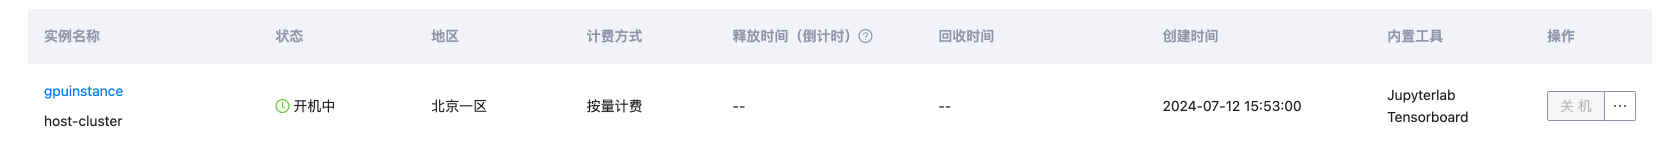
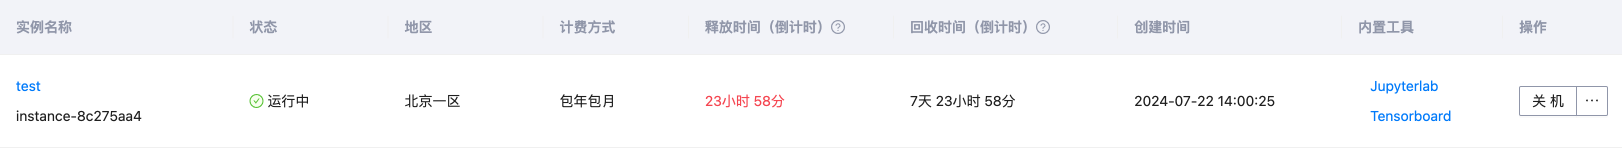
修改部分细节/新增贴图

diff --git a/i18n/zh-Hans/docusaurus-plugin-content-docs/current/ContainerInstance/jupterlab.md b/i18n/zh-Hans/docusaurus-plugin-content-docs/current/ContainerInstance/jupterlab.md
@@ -5,18 +5,28 @@ sidebar_label: JupyterLab
 ---
 ### 操作步骤
 
-进入左侧侧边栏中的**我的算力实例**，在具体的实例的内置工具下，点击Jupyterlab，进入Jupyterla界面。
+1.进入左侧侧边栏中的**算力实例**，在具体的实例的内置工具下，点击Jupyterlab，首先进入JupyterLab 启动时的登录界面。
+<img src={require('../../../../../static/img/jupyterlab/jupyterlab-1.png').default} alt="JupyterLab登录" style={{width: '600px', height: 'auto'}} />
+
+2.按照登录界面介绍，利用[ssh](ssh)连接算力实例，在终端输入命令：
+```bash
+jupyter server list
+```
+3.得到以下输出，复制'token='后的内容 <mark>c8de56fa... </mark> 作为密码粘贴到登录页面的密码字段中。注意:复制URL进入浏览器无法顺利进入JupyterLab，需要采取上文的输入token的方法。
+```bash
+http://localhost:8888/?token=c8de56fa... :: /Users/you/notebooks
+```
+
+4.进入JupyterLab界面。
+<img src={require('../../../../../static/img/jupyterlab/jupyterlab-2.png').default} alt="JupyterLab界面" style={{width: '1000px', height: 'auto'}} />
 
 ### 基本功能介绍
 
-JupyterLab界面说明
-
-上传文件
-
-使用Notebook
-
-打开新终端
-
-访问打开的终端或Notebook（JupyterLab在关闭终端/Notebook选项卡后默认不会终止，仍然在运行）
-
-文件管理
+JupyterLab 界面主要包括两大部分，即文件浏览区和工作区。
+<img src={require('../../../../../static/img/jupyterlab/jupyterlab-3.png').default} alt="JupyterLab界面" style={{width: '1000px', height: 'auto'}} />
+在文件浏览区，双击文件夹名称，进入文件目录。点击文件上传标识，选择待上传的文件。
+<img src={require('../../../../../static/img/jupyterlab/jupyterlab-4.png').default} alt="JupyterLab界面" style={{width: '300px', height: 'auto'}} />
+在文件浏览区，右键点击指定文件夹或文件，即可进行文件管理。
+<img src={require('../../../../../static/img/jupyterlab/jupyterlab-5.png').default} alt="JupyterLab界面" style={{width: '500px', height: 'auto'}} />
+在工作区域，点击 Other > Terminal 即可新打开一个终端。JupyterLab 在关闭终端或 Notebook 选项卡后，默认不会终止运行。
+<img src={require('../../../../../static/img/jupyterlab/jupyterlab-6.png').default} alt="JupyterLab界面" style={{width: '700px', height: 'auto'}} />

diff --git a/i18n/zh-Hans/docusaurus-plugin-content-docs/current/ContainerInstance/instance monitoring.md b/i18n/zh-Hans/docusaurus-plugin-content-docs/current/ContainerInstance/instance monitoring.md
@@ -8,7 +8,8 @@ sidebar_label: 实例监控
 ## 操作步骤
 ### 查看实例监控
 
-1.进入左侧侧边栏中的**我的算力实例**，点击具体的实例，进入该实例的详情界面。
+1.进入左侧侧边栏中的**算力实例**，点击具体的实例，进入该实例的详情界面。
+<img src={require('../../../../../static/img/monitoring/monitoring-1.png').default} alt="监控" style={{width: '1000px', height: 'auto'}} />
 
 2.在该实例的详情界面中，选择**监控**。
 
@@ -17,12 +18,12 @@ sidebar_label: 实例监控
 ### 查看实例日志
 
 在该实例的详情界面中，选择**日志**。进入容器实例日志页面，可查看当前容器实例的日志信息。
-
+<img src={require('../../../../../static/img/monitoring/monitoring-2.png').default} alt="日志" style={{width: '1000px', height: 'auto'}} />
 ### 查看实例事件
 
 在该实例的详情界面中，选择**事件**。进入容器实例事件页面，可查看当前容器实例的事件信息及其事件发生的时间。
-
+<img src={require('../../../../../static/img/monitoring/monitoring-3.png').default} alt="事件" style={{width: '1000px', height: 'auto'}} />
 ### 查看实例进程
 
 在该实例的详情界面中，选择**进程**。进入容器实例进程页面，可查看当前容器实例当前的进程，可以通过对cpu和内存对当前进程进行排序。
-
+<img src={require('../../../../../static/img/monitoring/monitoring-4.png').default} alt="事件" style={{width: '1000px', height: 'auto'}} />

diff --git a/i18n/zh-Hans/docusaurus-plugin-content-docs/current/getstarted.md b/i18n/zh-Hans/docusaurus-plugin-content-docs/current/getstarted.md
@@ -7,7 +7,7 @@ sidebar_label: 快速开始
 ## 创建实例
 
 进入概览页面，进入侧边栏中的**我的算力实例**，点击**创建实例**。
-<img src={require('../../../../static/img/getstarted/getstarted-create-instance2.png').default} alt="创建实例" style={{width: '600px', height: 'auto'}} />
+<img src={require('../../../../static/img/getstarted/getstarted-1.png').default} alt="创建实例" style={{width: '600px', height: 'auto'}} />
 
 ## 租用实例
 
@@ -27,11 +27,11 @@ sidebar_label: 快速开始
 
 <!-- 如果需要更多的存储空间，点击创建存储进入新建存储页面，选择地区、付费方式、存储类别、存储大小，设置存储名称，点击立即创建。除新建存储外，也可以对系统默认数据盘进行扩容。 -->
 
-创建成功，进入侧面栏中的我的算力实例，点击实例名称后，选中存储选项，设置存储在实例中的挂载路径，即可用该路径在实例中访问存储文件。
+创建成功，进入侧面栏中的算力实例，点击实例名称后，选中存储选项，设置存储在实例中的挂载路径，即可用该路径在实例中访问存储文件。
 
 ## 终端训练
 
-进入侧边栏中的我的算力实例，在操作中打开终端，在终端中执行您的Python命令等完成训练。
+进入侧边栏中的算力实例，在操作中打开终端，在终端中执行您的Python命令等完成训练。
 
 
 

diff --git a/i18n/zh-Hans/docusaurus-plugin-content-docs/current/RechargeBilling/rechargebilling.md b/i18n/zh-Hans/docusaurus-plugin-content-docs/current/RechargeBilling/rechargebilling.md
@@ -10,9 +10,7 @@ sidebar_label: 充值计费
 **目前平台不支持余额提现，请您按需充值。**
 当前支持的充值方式有：
 
-1.微信充值
-
-2.支付宝充值
+- 支付宝充值
 
 
 ## 计费
@@ -24,8 +22,8 @@ sidebar_label: 充值计费
 #### 1. 按量计费，后付费
 - **注意**：存储单独计费，不包含在实例计费中，请参考下方存储计费。
 - 开机开始计费，关机或删除结束计费，最低计费0.01元。
-- 存储数据保留7天后清空。
-- 整点扣费一次和关机时扣费一次，使用时长精确到秒。
+- 实例关机7天后，数据将清空。
+- 整点扣费一次，使用时长精确到秒。
 
 #### 2. 包时计费，预付费
 - 部署时一次性付清。
@@ -41,14 +39,14 @@ sidebar_label: 充值计费
 - 无论实例是否开机，均会计费。
 - 如不再需要使用，可在存储管理进行删除。
 - 最低费用0.01元。
+- 创建包时的实例扩容存储后，存储将预付费。
 
 **计费单价**：
-- 本地存储：￥0.02/G/日
-- 共享文件系统：￥0.01/G/日
+- 共享文件系统：￥0.01/日/G
 
 ### 镜像计费
 
-- 以所有镜像存储总容量大小进行收费，与镜像数量无关。
+- 以所有镜像存储总容量大小进行收费，与镜像数量无关。将赠送30G大小的镜像存储容量，超出后将付费。
 - 扣费时间为次日凌晨。
 - 最低费用0.01元。
 

diff --git a/i18n/zh-Hans/docusaurus-plugin-content-docs/current/ContainerInstance/instance status.md b/i18n/zh-Hans/docusaurus-plugin-content-docs/current/ContainerInstance/instance status.md
@@ -6,10 +6,9 @@ sidebar_label: 实例状态
 算力实例的实例状态是指实例从启动到释放所经历的各种状态。通过对算力实例从启动到销毁期间的合理管理，可确保运行于实例上的应用程序高效地提供服务。
 | 状态名 | 状态属性 | 状态描述 |
 |:-------:|:-------:|---------|
-| 创建中| 中间状态 | 实例创建后，进入“运行中”之前的状态。 |
+| 开机中| 中间状态 | 实例创建后，或实例在已关机状态后，受控制台执行开机操作，进入“运行中”之前的状态。 |
 | 运行中 | 稳定状态 | 实例正常运行状态，您可以在此状态下的实例上运行您的业务。 
 | 关机中| 中间状态 | 实例受控制台执行关机操作后，在进入“已关机”之前的状态。如果长时间处于该状态，则说明出现异常。不建议强制关机。 |
 | 已关机 | 稳定状态 | 实例被正常停止，关机状态下的实例，不能对外提供业务。实例部分属性只能在关机状态下修改。 |
-| 开机中| 中间状态 | 实例在已关机状态后，受控制台执行开机操作，进入“运行中”之前的状态。 |
 | 删除中| 中间状态 | 实例在已关机状态后，受控制台执行删除操作，在被删除前的状态。 |
 

diff --git a/i18n/zh-Hans/docusaurus-plugin-content-docs/current/DataStorage/data transmission.md b/i18n/zh-Hans/docusaurus-plugin-content-docs/current/DataStorage/data transmission.md
@@ -8,7 +8,7 @@ sidebar_label: 数据传输
 
 1.[JupyterLab](../ContainerInstance/jupterlab)：目前 JupyterLab 暂不支持批量文件或文件夹的上传/下载。
 
-2.[Matrix存储管理](createstorage)：支持上传文件、文件夹。不支持下载文件。
+2.[Matrix存储管理](createstorage)：支持上传文件。不支持上传文件夹，不支持下载文件、文件夹。
 
 3.scp命令：支持使用命令行上传下载文件和文件夹。
 
@@ -19,11 +19,12 @@ sidebar_label: 数据传输
 ### 上传
 
 按照如图所示操作上传文件。
+<img src={require('../../../../../static/img/jupyterlab/jupyterlab-4.png').default} alt="JupyterLab界面" style={{width: '300px', height: 'auto'}} />
 
 ### 下载
 
 按照如图所示操作下载文件,选中文件，然后鼠标右键。
-
+<img src={require('../../../../../static/img/jupyterlab/jupyterlab-5.png').default} alt="JupyterLab界面" style={{width: '500px', height: 'auto'}} />
 注意JupyterLab不能下载文件夹,可以使用命令行工具将文件夹压缩成一个压缩文件。这里是一个常用的压缩命令示例，假设你要将文件夹my_folder压缩成my_folder.zip：
 ```bash
 zip -r my_folder.zip my_folder

diff --git a/i18n/zh-Hans/docusaurus-plugin-content-docs/current/ServiceAgreement/serviceagreement.md b/i18n/zh-Hans/docusaurus-plugin-content-docs/current/ServiceAgreement/serviceagreement.md
@@ -113,7 +113,7 @@ sidebar_label: 服务协议
 **4.4.1 要求您除应依约支付应付费用外，每逾期一天，还应按所欠费用1‰的标准向 Neolink.AI 支付违约金，直至缴清全部费用为止。**
 **4.4.2 若您逾期付款超过15天，Neolink.AI 有权无需另行通知您即可随时采取包括但不限于提前单方解除协议的措施。**
 **4.4.3 若您逾期付款但您使用了预付费服务或您账号有未消耗的现金余额的，则 Neolink.AI 有权无需另行通知您，而直接将预付费用和现金余额用于抵扣拖欠款项和违约金。**
-4.4.4 删除您基于使用 Neolink.AI 服务而存储或产生的部分或全部信息和数据。
+**4.4.4 删除您基于使用 Neolink.AI 服务而存储或产生的部分或全部信息和数据。**
 
 ## 第五条 Neolink.AI 权利义务
 5.1 Neolink.AI 应当依照本协议约定向您提供 Neolink.AI 服务和售后支持。

diff --git a/i18n/zh-Hans/docusaurus-plugin-content-docs/current/ContainerInstance/create instance.md b/i18n/zh-Hans/docusaurus-plugin-content-docs/current/ContainerInstance/create instance.md
@@ -10,7 +10,7 @@ sidebar_label: 创建算力实例
 
 1.进入左侧侧边栏中的**我的算力实例**，点击**创建实例**。
 
-<img src={require('../../../../../static/img/getstarted/getstarted-create-instance2.png').default} alt="创建实例" style={{width: '600px', height: 'auto'}} />
+<img src={require('../../../../../static/img/getstarted/getstarted-1.png').default} alt="创建实例" style={{width: '600px', height: 'auto'}} />
 
 2.在**创建实例**页面：选择**地区**，选择**计费方式**（按量计费或者包日、包周、包月），选择**GPU型号**、**数量**、**规格**，选择**镜像**（内置了不同的深度学习框架），最后创建即可。如果你需要更大的硬盘用于存放数据，那么请设置需要扩容的大小。
 

diff --git a/i18n/zh-Hans/docusaurus-plugin-content-docs/current/DataStorage/createstorage.md b/i18n/zh-Hans/docusaurus-plugin-content-docs/current/DataStorage/createstorage.md
@@ -18,6 +18,6 @@ sidebar_label: 存储管理
 
 3.在指定存储所在行，选择**操作**>**上传文件**。
 
-4.进入**我的算力实例**页面，点击具体的实例，在**存储**中设置存储的挂载路径，确定后即可在实例中用该挂载路径访问文件。
+4.进入**算力实例**页面，点击具体的实例，在**存储**中设置存储的挂载路径，确定后即可在实例中用该挂载路径访问文件。
 
 

diff --git a/docs/FrequentlyAskedProblems/qa3.md b/docs/FrequentlyAskedProblems/qa3.md
@@ -1,0 +1,6 @@
+---
+sidebar_position: 3
+title: 实例开机时遇到FailedSchedualing事件
+sidebar_label: 实例开机时遇到FailedSchedualing事件
+---
+

diff --git a/i18n/zh-Hans/docusaurus-plugin-content-docs/current/FrequentlyAskedProblems/qa3.md b/i18n/zh-Hans/docusaurus-plugin-content-docs/current/FrequentlyAskedProblems/qa3.md
@@ -1,0 +1,6 @@
+---
+sidebar_position: 3
+title: 实例开机时遇到FailedSchedualing事件
+sidebar_label: 实例开机时遇到FailedSchedualing事件
+---
+
